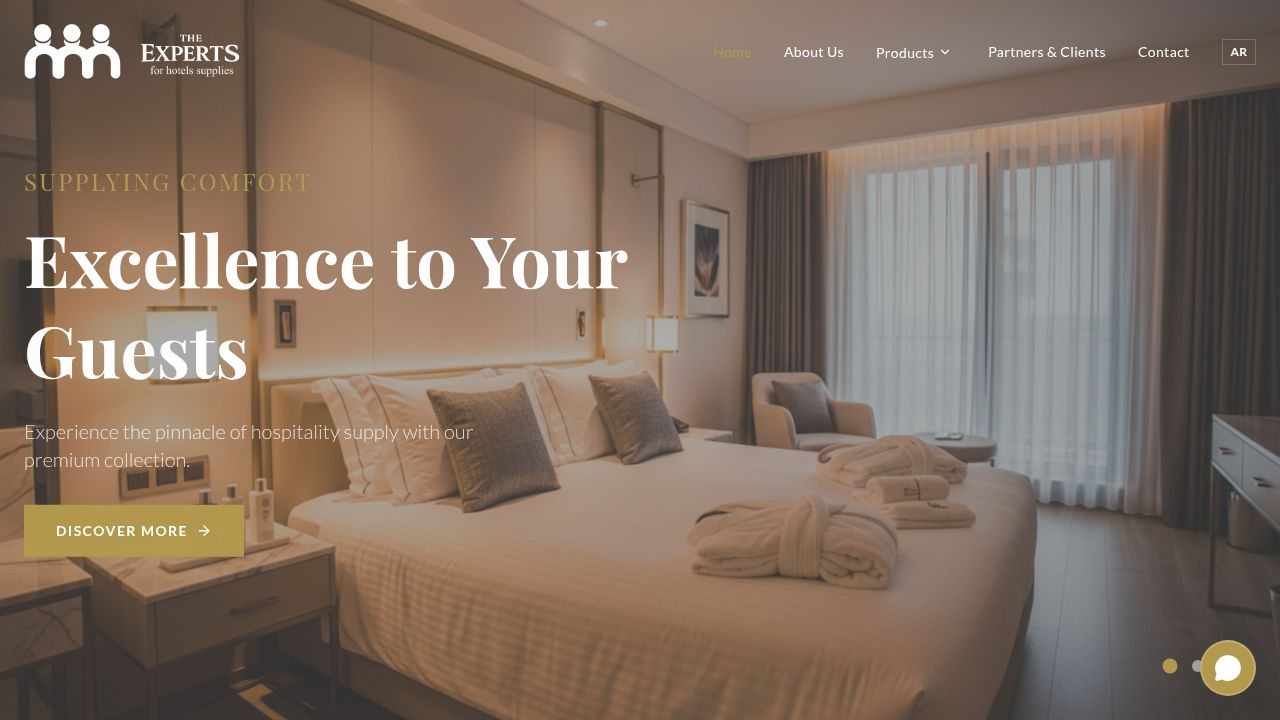
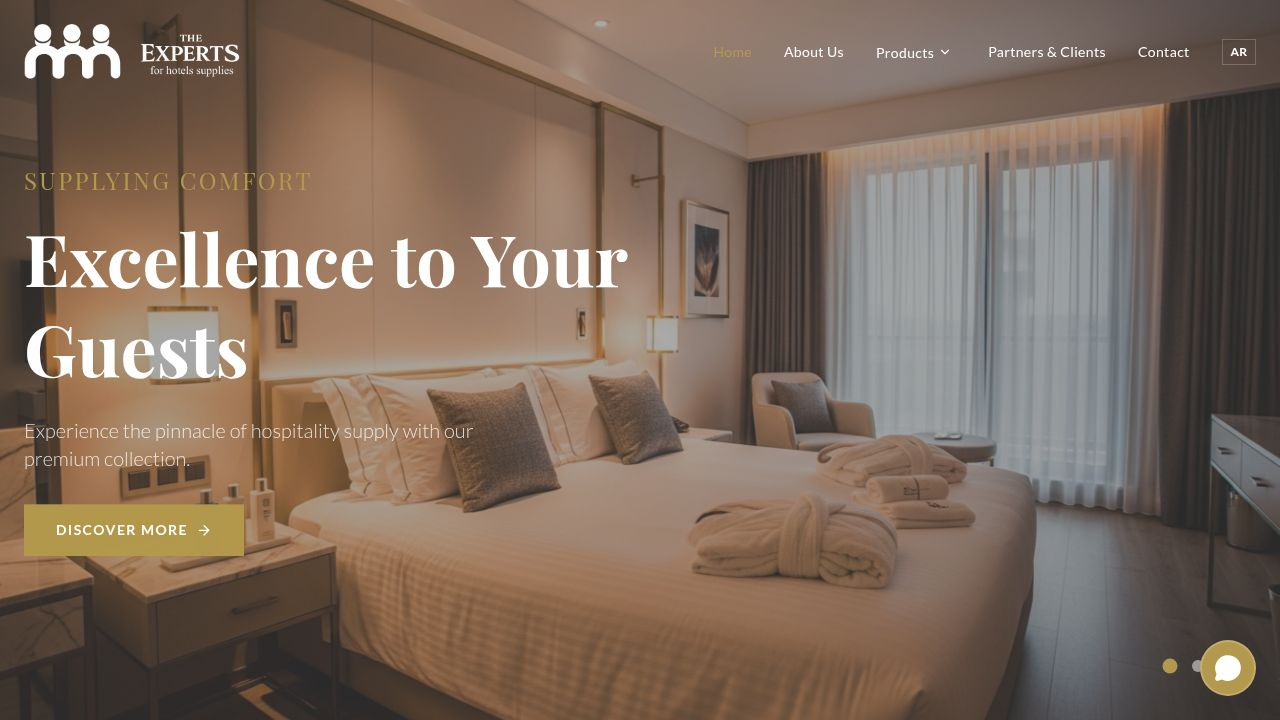
Update the main image on the home page to a new hotel room design
Updates the home section image URL in the seed script to point to a new PNG file.

Replit-Commit-Author: Agent
Replit-Commit-Session-Id: 658373c2-5919-4f5b-b04d-431f1ef9d610
Replit-Commit-Checkpoint-Type: full_checkpoint
Replit-Commit-Event-Id: a86f5e60-5255-427c-915d-fef3c0cfc5fa
Replit-Commit-Screenshot-Url: https://storage.googleapis.com/screenshot-production-us-central1/e24cf016-21c9-4399-a654-3af271d57383/658373c2-5919-4f5b-b04d-431f1ef9d610/i4gsHuq
Replit-Helium-Checkpoint-Created: true

diff --git a/server/seed.ts b/server/seed.ts
@@ -270,7 +270,7 @@ export async function seedDatabase() {
     { key: "partners_banner", imageUrl: "/uploads/partners-banner.png", label: "Partners Page Banner" },
     { key: "partners_cta", imageUrl: "/uploads/partners-cta.png", label: "Partners CTA Image" },
     { key: "category_banner", imageUrl: "/uploads/category-banner.png", label: "Category Detail Banner" },
-    { key: "home_section", imageUrl: "/uploads/home-section-image.jpg", label: "Home Section Image" },
+    { key: "home_section", imageUrl: "/uploads/home-section-image.png", label: "Home Section Image" },
   ];
   for (const img of defaultSiteImages) {
     await storage.upsertSiteImage(img);
